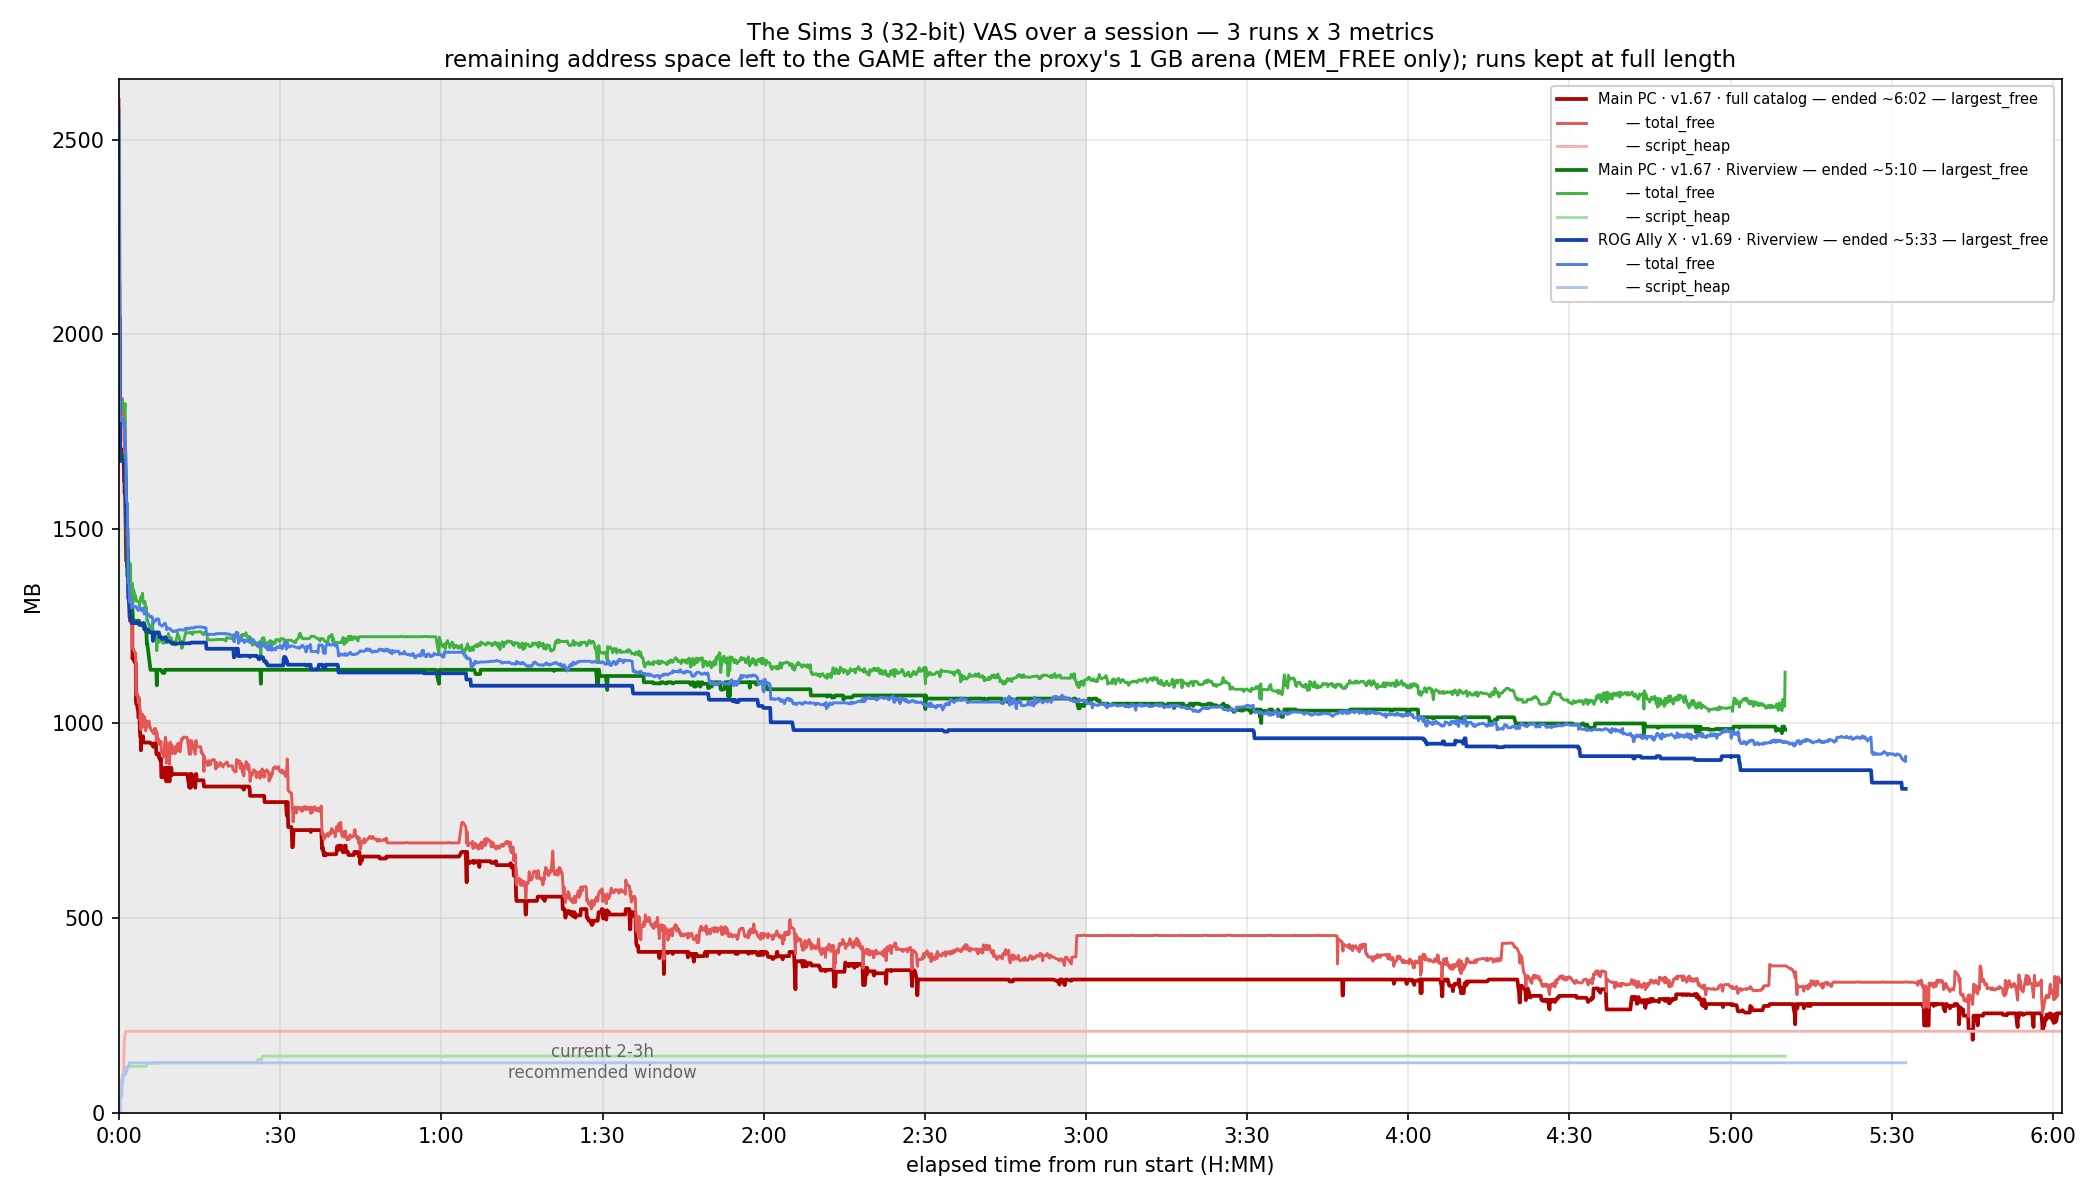
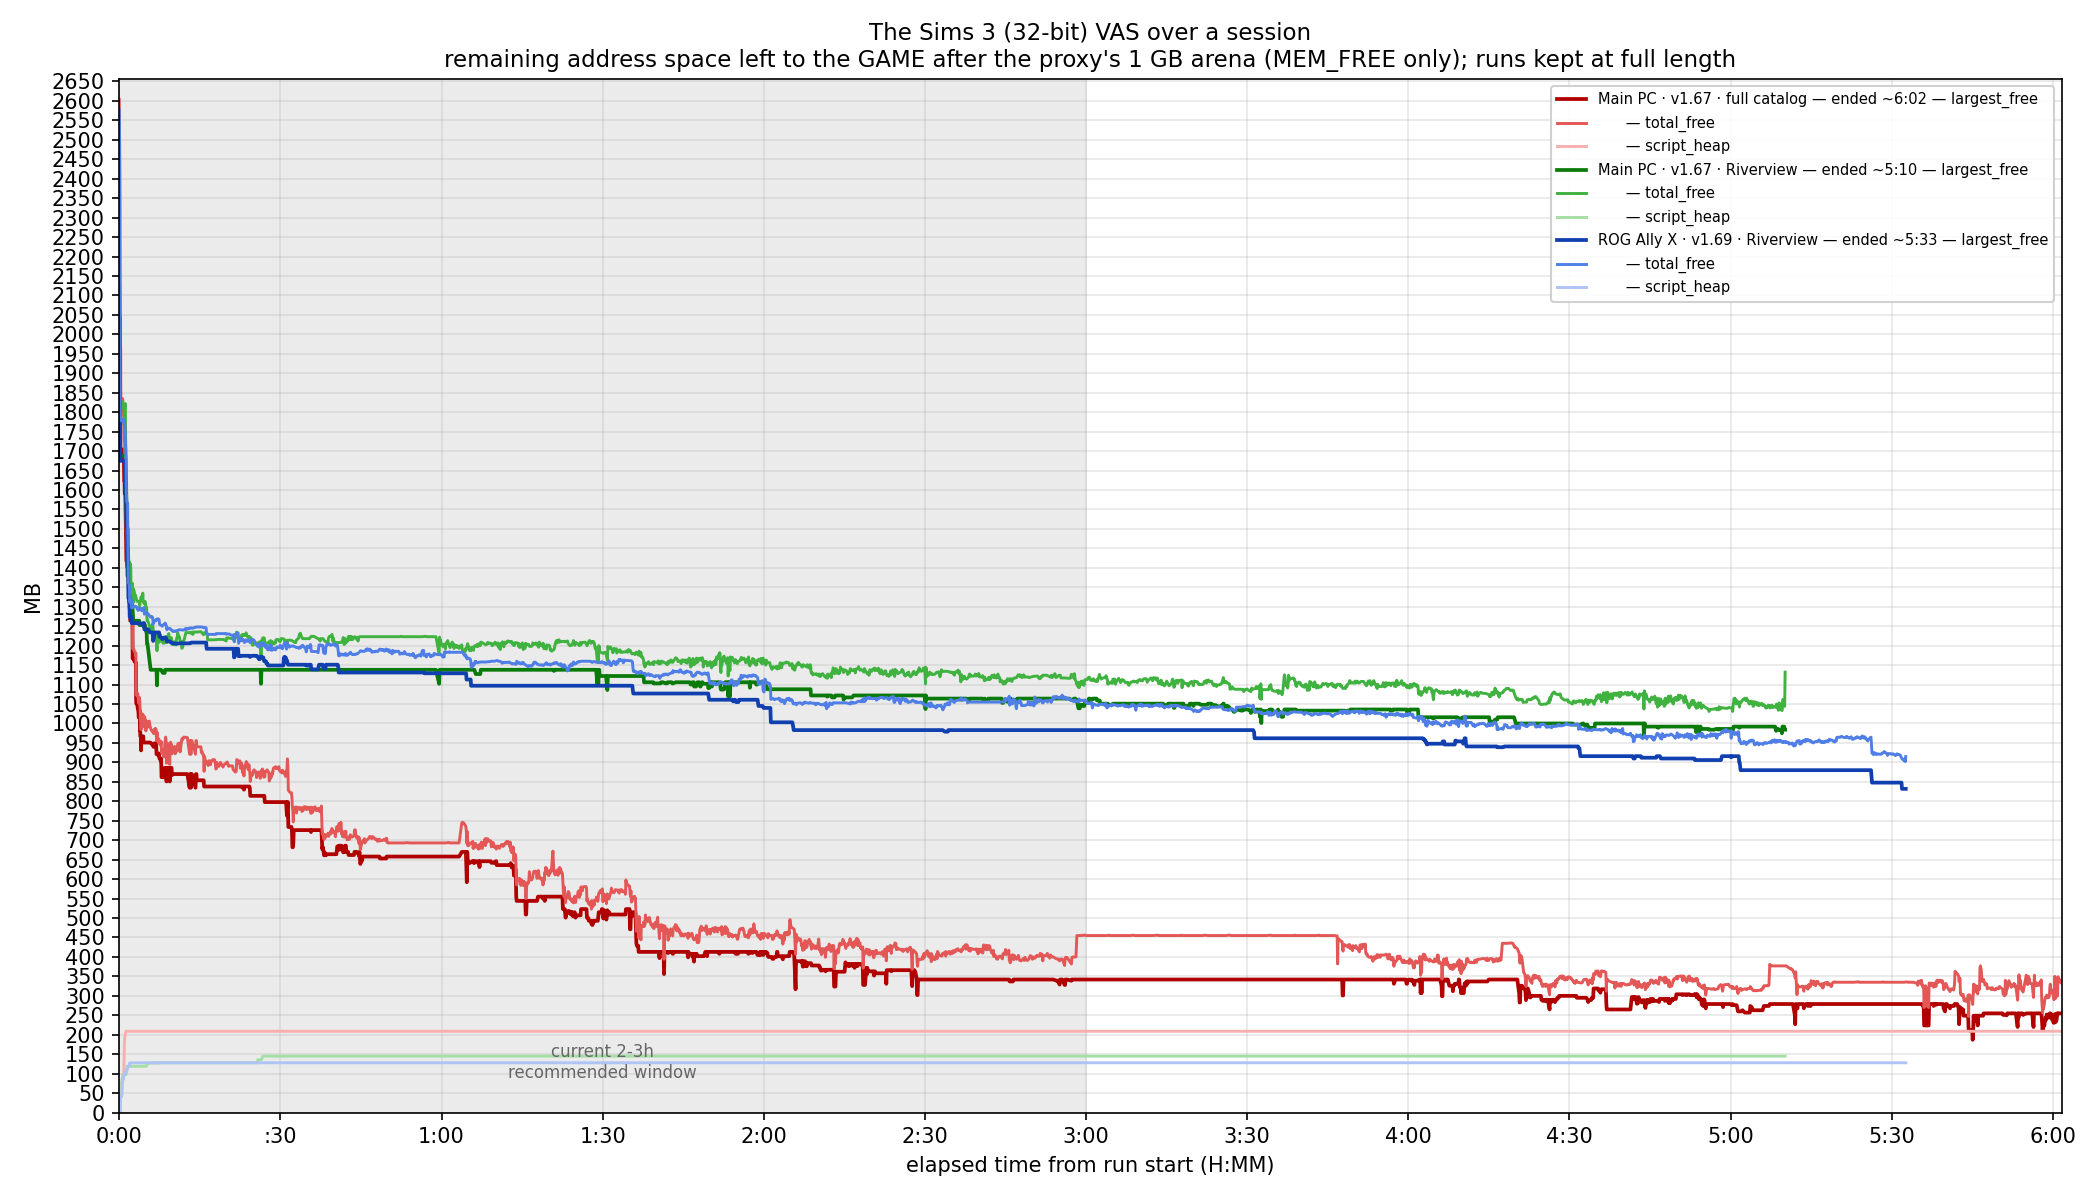
docs: improve VAS graph readability (50 MB y-ticks, trimmed title)
Y-axis gridlines every 50 MB instead of 500 for precise reading; drop the
redundant "3 runs x 3 metrics" from the title since the legend already says so.

Changed region(s): [[0.031, 0.0617, 0.0619, 0.925], [0.3714, 0.0, 0.681, 0.0308], [0.2786, 0.925, 0.3095, 0.9558]]

diff --git a/docs/make_vas_graph.py b/docs/make_vas_graph.py
@@ -99,12 +99,13 @@ ax.set_xlim(0, max_x)                 # x starts at the 0 origin
 ax.set_ylim(0, max_y * 1.02)          # y starts at the 0 origin
 ax.xaxis.set_major_locator(MultipleLocator(30))   # a tick every 30 min
 ax.xaxis.set_major_formatter(FuncFormatter(lambda v, _: hm(v)))
+ax.yaxis.set_major_locator(MultipleLocator(50))   # MB gridlines every 50
 
 ax.axvspan(0, 180, color="0.92", zorder=0)        # 2-3h "recommended" window
 ax.text(90, max_y * 0.03, "current 2-3h\nrecommended window",
         ha="center", va="bottom", fontsize=8, color="0.4")
 
-plt.title("The Sims 3 (32-bit) VAS over a session — 3 runs x 3 metrics\n"
+plt.title("The Sims 3 (32-bit) VAS over a session\n"
           "remaining address space left to the GAME after the proxy's 1 GB arena "
           "(MEM_FREE only); runs kept at full length", fontsize=11)
 plt.xlabel("elapsed time from run start (H:MM)")
